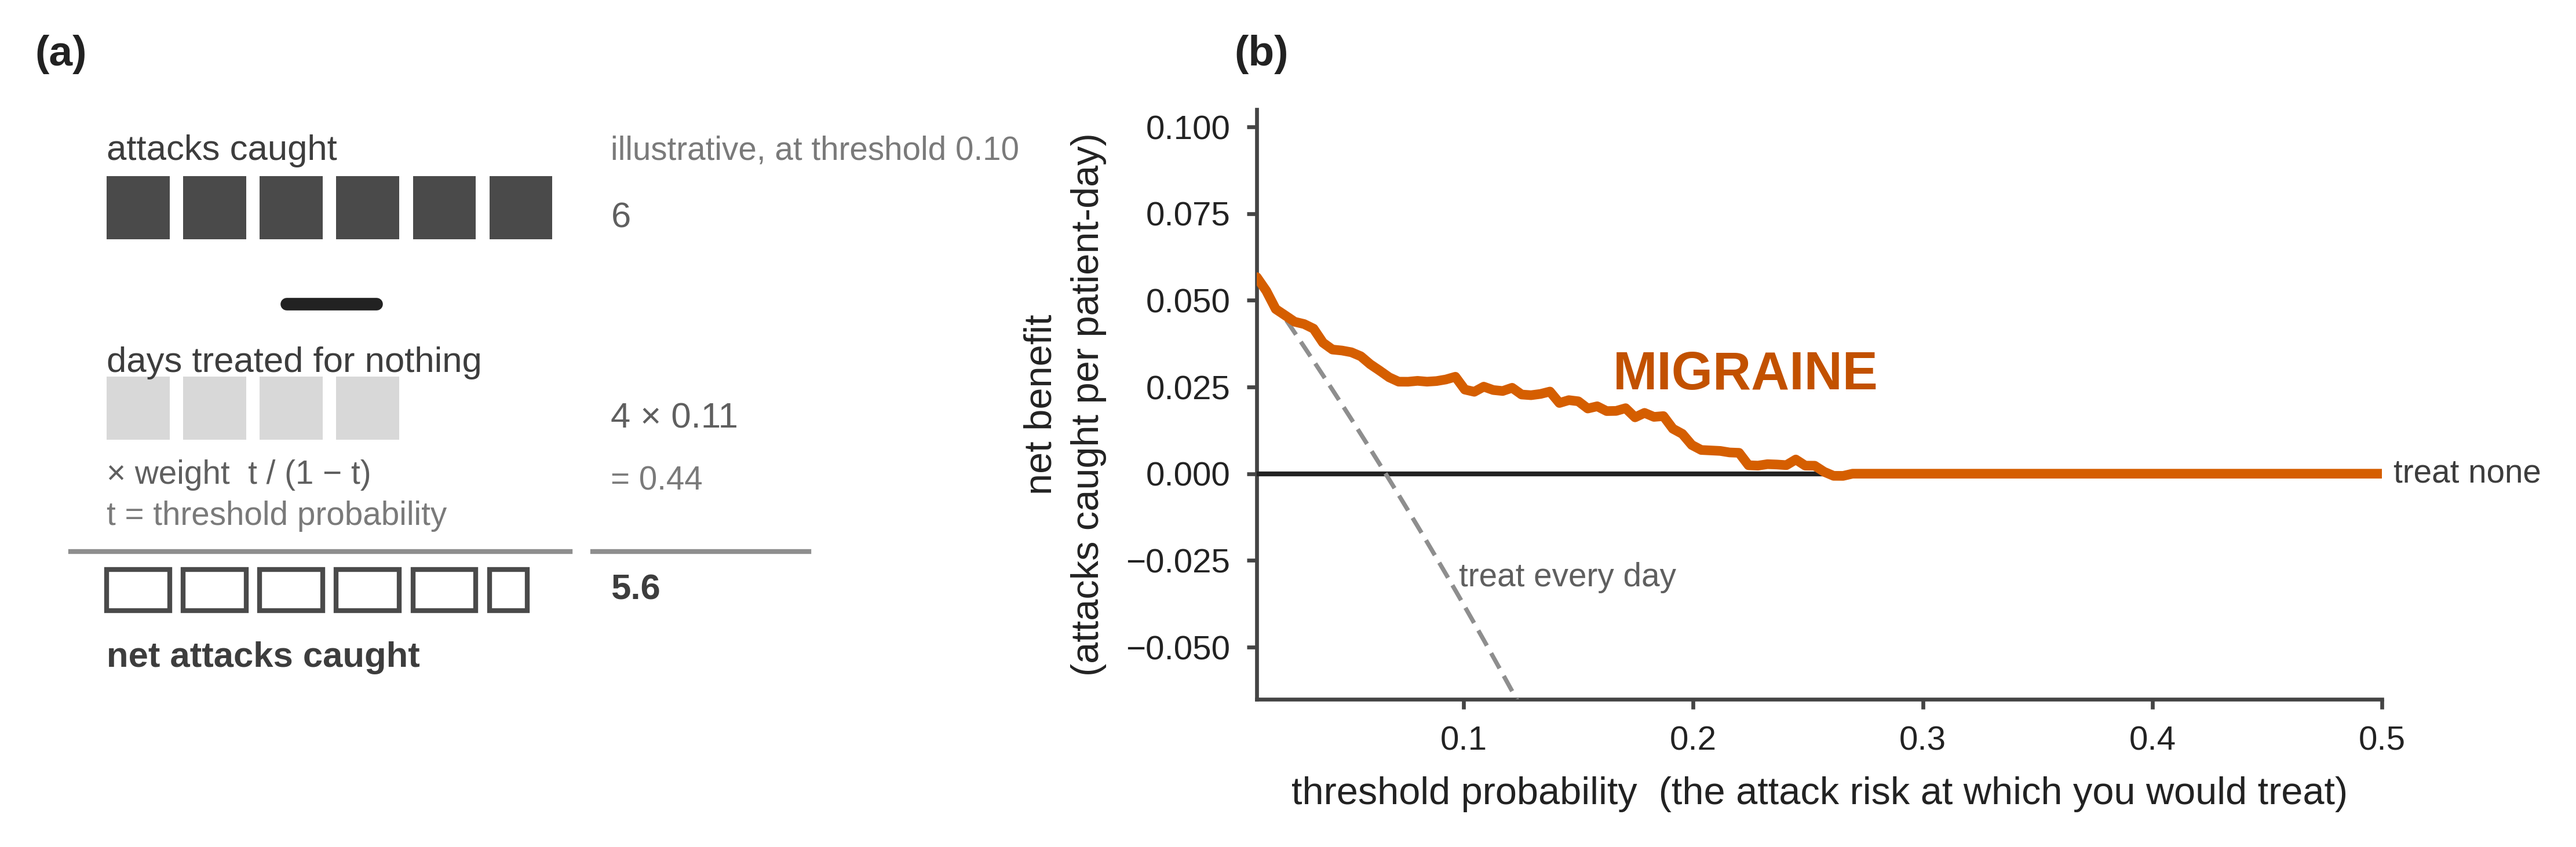
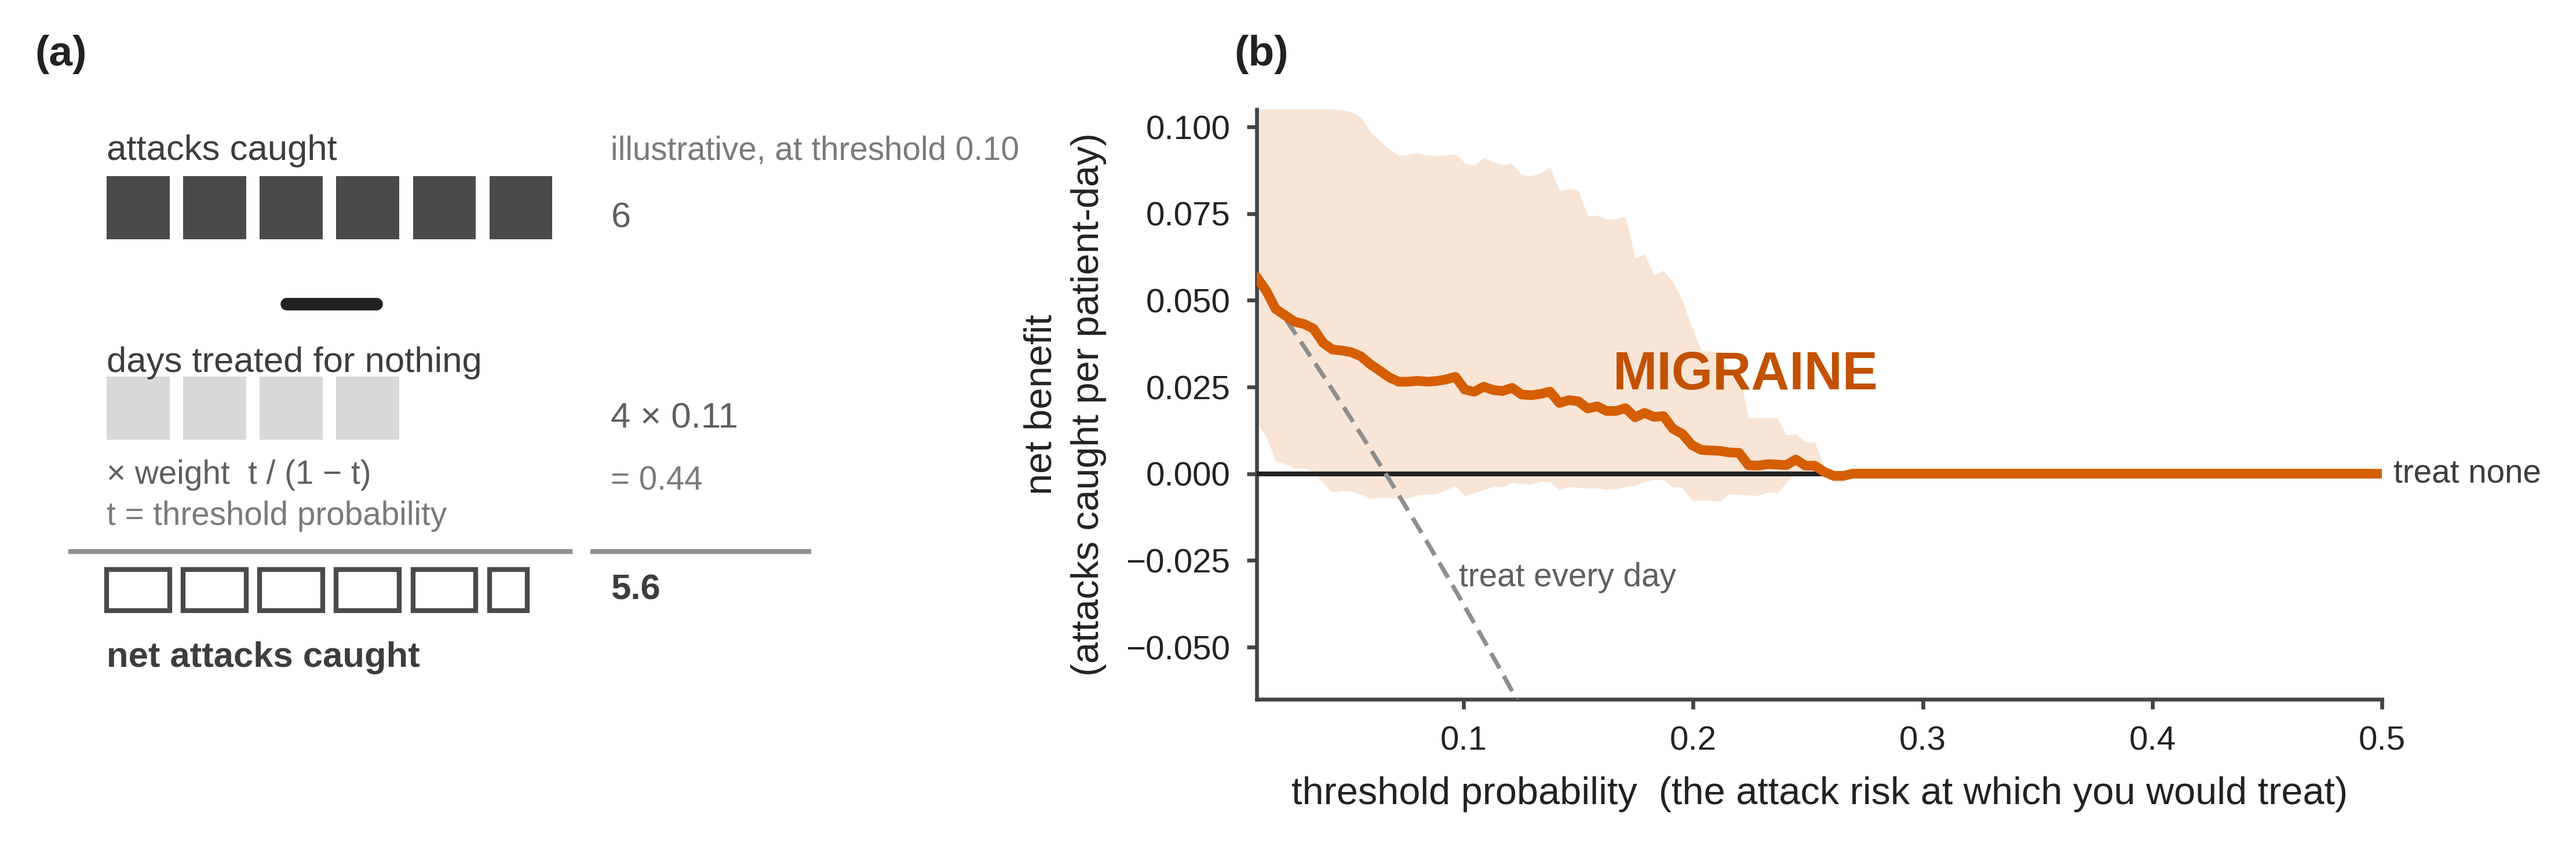
band

Changed region(s): [[0.4656, 0.1231, 0.7139, 0.5848]]

diff --git a/docs/methodAndResults_diagramCreatorScripts/fig_m_evaluation_series.py b/docs/methodAndResults_diagramCreatorScripts/fig_m_evaluation_series.py
@@ -77,6 +77,26 @@ def _net_benefit(y, p, thresholds):
     return np.array(nb_model), np.array(nb_all)
 
 
+def _net_benefit_band(y, p, pid, thresholds, n_boot=500, seed=42):
+    """Patient-cluster bootstrap 95% band for the model's net-benefit curve.
+
+    Methods already state net benefit is reported with bootstrap 95% CIs, so drawing
+    the curve without them made the figure contradict the text. Resampling is over
+    PATIENTS, not days, to respect within-patient serial dependence.
+    """
+    rng = np.random.default_rng(seed)
+    pats = np.unique(pid)
+    idx_by = {q: np.flatnonzero(pid == q) for q in pats}
+    draws = []
+    for _ in range(n_boot):
+        sel = rng.choice(pats, size=len(pats), replace=True)
+        ii = np.concatenate([idx_by[q] for q in sel])
+        nb_b, _ = _net_benefit(y[ii], p[ii], thresholds)
+        draws.append(nb_b)
+    d = np.vstack(draws)
+    return np.percentile(d, 2.5, axis=0), np.percentile(d, 97.5, axis=0)
+
+
 # The graphical abstract's scale, adopted verbatim so the two figures read as one
 # family: headings 8.8 bold, values 11 bold, axis labels 8, ticks 7, body 7.4, and
 # its three greys for body / secondary / tertiary text.
@@ -281,11 +301,13 @@ def _dca_panel(ax, preds, col):
     """
     ts = np.linspace(0.01, 0.50, 120)
     ax.axhline(0.0, color=S.INK, lw=1.0, zorder=3)
-    y, p, _ = preds["migraine"]
+    y, p, pid = preds["migraine"]
     nb, nb_all = _net_benefit(y, p, ts)
+    lo_b, hi_b = _net_benefit_band(y, p, pid, ts)
     # treat-all is a POLICY, not a target, so it is achromatic. Both blind readers read
     # the old same-hue dashed line as a confidence band on the model.
     ax.plot(ts, nb_all, color=A_MID, lw=0.9, ls=(0, (4, 2)), zorder=4)
+    ax.fill_between(ts, lo_b, hi_b, color=col, alpha=0.16, lw=0, zorder=2)
     ax.plot(ts, nb, color=col, lw=2.0, zorder=5, solid_capstyle="round")
     # anchor where the curve is furthest from the policy line, not at a fixed index,
     # and offset perpendicular to the local slope in display units so the gap is the
